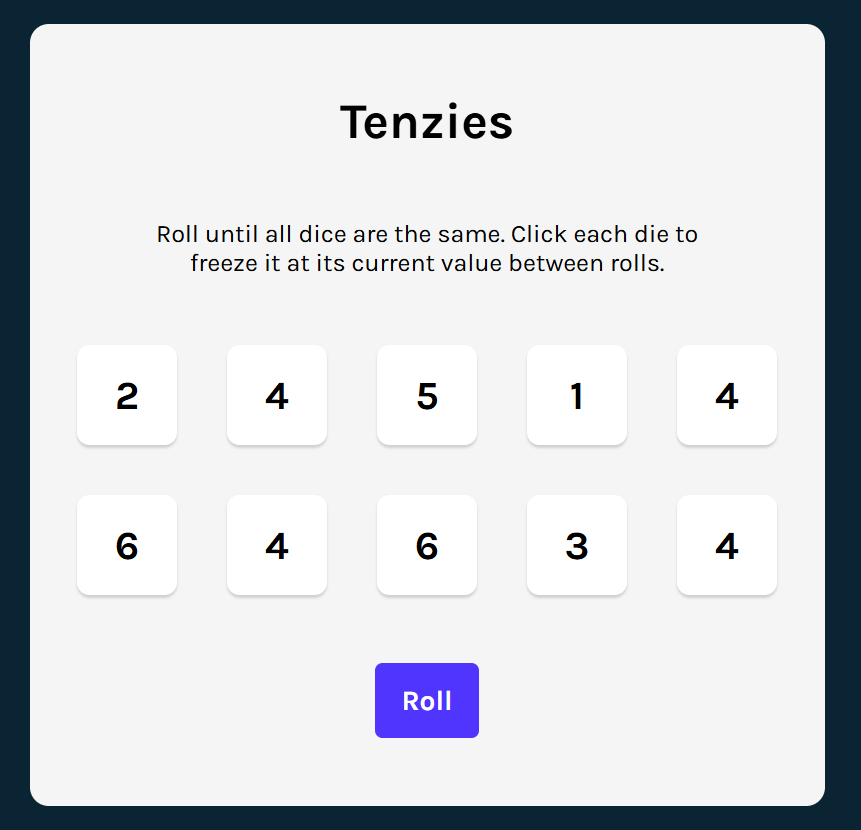
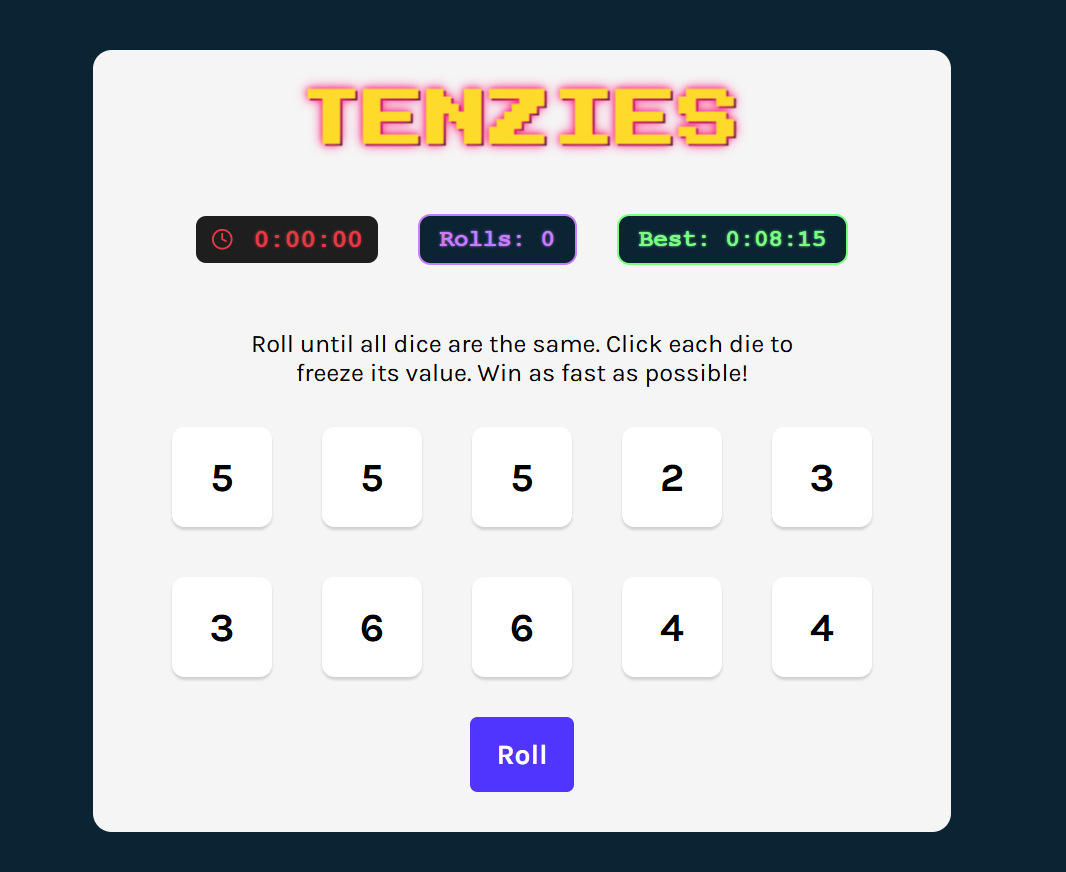
fixed css style of roll counter and highscore as well as new image for preview in readme

diff --git a/src/index.css b/src/index.css
@@ -87,7 +87,7 @@ main {
     font-weight: bold;
     font-family: 'Courier New', monospace;
     font-size: 1.2rem;
-    padding: 7px 16px;
+    padding: 8px 16px;
     border: 2px solid #c77dff;
     border-radius: 10px;
     text-shadow: 0 0 2px #c77dff;
@@ -99,7 +99,7 @@ main {
     font-weight: bold;
     font-family: 'Courier New', monospace;
     font-size: 1.2rem;
-    padding: 7px 16px;
+    padding: 8px 16px;
     border: 2px solid #7dff86;
     border-radius: 10px;
     text-shadow: 0 0 2px #7dff86;
